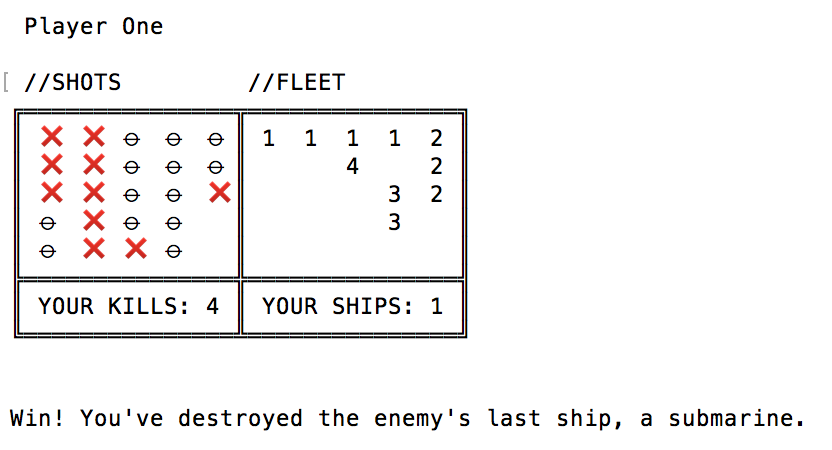
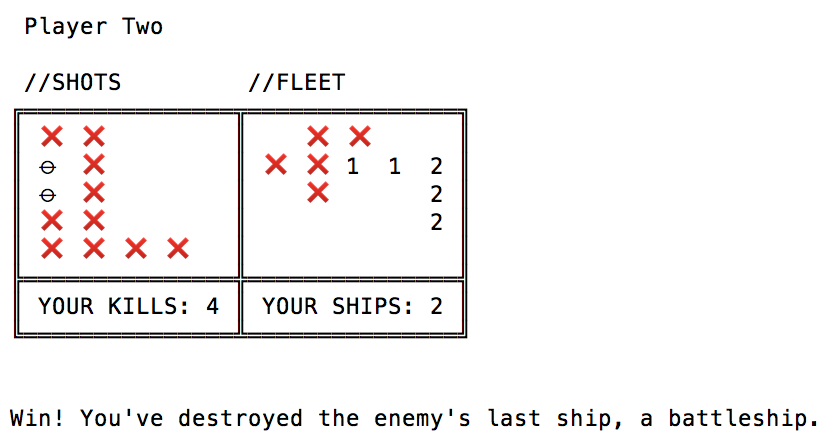
[feature] Add feedback for current player ship damage

diff --git a/gameboard.js b/gameboard.js
@@ -4,14 +4,14 @@ function Theater(n) {
     one: {
       player    : 'One',
       plays     : this.nMatrix(n),
-      kills     : [],
+      kills     : 0,
       fleet     : this.setFleet(n),
       placement : this.placeFleet(n, this.fleet)
     },
     two: {
       player    : 'Two',
       plays     : this.nMatrix(n),
-      kills     : [],
+      kills     : 0,
       fleet     : this.setFleet(n),
       placement : this.placeFleet(n, this.fleet)
     }
@@ -146,7 +146,7 @@ Theater.prototype.format = function(player) {
     '╣' + '\n' +
     '║ ' +
     'YOUR KILLS: '
-    + player.kills.length +
+    + player.kills +
     '   '.repeat(player.plays.length - 5) +
     ' ║ ' +
     'YOUR SHIPS: '
@@ -187,12 +187,14 @@ Theater.prototype.fire = function(x, y, player) {
     offense.plays[y][x] = 2; // 0 === Null; 1 === Miss; 2 === Hit
     ship[1] -= 1;
     if (ship[1] > 0) {
+      defense.placement[y][x] = '❌';
       return ['Hit! Good show!', 1];
     } else if (defense.fleet.filter(boat => boat[1] > 0).length > 0) {
-      offense.kills = defense.fleet.filter(boat => boat[1] === 0);
+      defense.placement[y][x] = '❌';
+      offense.kills = defense.fleet.filter(boat => boat[1] === 0).length;
       return ['Sunk! Nice, it was a ' + ship[0] + '.', 1];
     } else {
-      offense.kills = defense.fleet.filter(boat => boat[1] === 0);
+      offense.kills = defense.fleet.filter(boat => boat[1] === 0).length;
       this.print(player);
       return ['Win! You\'ve destroyed the enemy\'s last ship, a ' +
         ship[0] + '.', 2];
